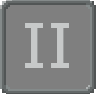
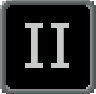
Finished UI

diff --git a/core/src/main/org/lordsofchaos/Game.java b/core/src/main/org/lordsofchaos/Game.java
@@ -83,6 +83,7 @@ public class Game extends ApplicationAdapter implements InputProcessor {
     private BitmapFont unitNumber;
     private BitmapFont matchConclusionFont;
     private BitmapFont arialFont18;
+    private BitmapFont boxyFont18;
     private Pixmap towerAttackPixmap;
     private Texture towerAttackTexture;
     private List<TroopSprite> unitsSprite = new ArrayList<>();
@@ -119,6 +120,10 @@ public class Game extends ApplicationAdapter implements InputProcessor {
 
     private Texture HPUpgradeBackgroundTexture;
     private Sprite HPUpgradeBackgroundSprite;
+
+    private Texture backgrounPanelTexture;
+    private Sprite backgroundPanelSprite;
+
     public static void main(String[] args) {
         setupClient();
     }
@@ -165,7 +170,9 @@ public class Game extends ApplicationAdapter implements InputProcessor {
     public static boolean getMenuOpen() {
         return menuOpen;
     }
-    
+    public  BitmapFont getPixelatedFont(){
+        return unitNumber;
+    }
     public static void setMenuOpen(boolean bool) {
         menuOpen = bool;
     }
@@ -253,9 +260,9 @@ public class Game extends ApplicationAdapter implements InputProcessor {
                 Gdx.graphics.getHeight() / 2 -215, Screen.MAIN_MENU, Screen.LEADERBOARD));
         
         // troop buttons
-        buttonList.add(new UnitButton("UI/ufoButton.png", 30, 50, Screen.ATTACKER_SCREEN, 0));
-        buttonList.add(new UnitButton("UI/ufo3Button.png", 136, 50, Screen.ATTACKER_SCREEN, 1));
-        buttonList.add(new UnitButton("UI/ufo2Button.png", 242, 50, Screen.ATTACKER_SCREEN, 2));
+        buttonList.add(new UnitButton("UI/ufoButtonB.png", 30, 50, Screen.ATTACKER_SCREEN, 0));
+        buttonList.add(new UnitButton("UI/ufo3ButtonB.png", 136, 50, Screen.ATTACKER_SCREEN, 1));
+        buttonList.add(new UnitButton("UI/ufo2ButtonB.png", 242, 50, Screen.ATTACKER_SCREEN, 2));
         // select attacker/defender buttons
         buttonList.add(new PlayerButton("UI/NewArtMaybe/defenderButton.png", 100, Gdx.graphics.getHeight() / 2, Screen.CHOOSE_FACTION, Screen.DEFENDER_SCREEN, 0));
         buttonList.add(new PlayerButton("UI/NewArtMaybe/attackerButton.png", Gdx.graphics.getWidth() - 400, Gdx.graphics.getHeight() / 2, Screen.CHOOSE_FACTION, Screen.ATTACKER_SCREEN, 1));
@@ -275,7 +282,7 @@ public class Game extends ApplicationAdapter implements InputProcessor {
         buttonList.add(new HoverUI("UI/healthBar1Hitbox.png",3, Gdx.graphics.getHeight() - 112,null,"UI/InfoCards/infoPanelHealthbar.png",10, Gdx.graphics.getHeight() - 275));
         buttonList.add(new HoverUI("UI/upgradeBarHitbox.png",10, Gdx.graphics.getHeight() - 161,null,"UI/InfoCards/infoPanelUpgradebar.png",10, Gdx.graphics.getHeight() - 275));
         buttonList.add(new HoverUI("UI/coinHitbox.png",Gdx.graphics.getWidth() - 215, Gdx.graphics.getHeight() - 85,null,"UI/InfoCards/infoPanelCoins.png",Gdx.graphics.getWidth() - 225, Gdx.graphics.getHeight() - 175));
-        buttonList.add(new HoverUI("UI/timerHitbox.png",Gdx.graphics.getWidth() / 2 + 275, Gdx.graphics.getHeight() - 77,null,"UI/InfoCards/infoPanelTimer.png",Gdx.graphics.getWidth() / 2 + 225, Gdx.graphics.getHeight() - 150));
+        buttonList.add(new HoverUI("UI/timerHitbox.png",Gdx.graphics.getWidth() / 2 + 275, Gdx.graphics.getHeight() - 77,null,"UI/InfoCards/infoPanelTimer.png",Gdx.graphics.getWidth() / 2 + 235, Gdx.graphics.getHeight() - 175));
         // menu buttons
         menuButtonList = new ArrayList<Button>();
         // slider buttons
@@ -408,6 +415,8 @@ public class Game extends ApplicationAdapter implements InputProcessor {
 
         fontGenerator = new FreeTypeFontGenerator(Gdx.files.internal("UI/boxybold.ttf"));
         fontParameterBoxy = new FreeTypeFontParameter();
+        fontParameterBoxy.size = 18;
+        boxyFont18 = fontGenerator.generateFont(fontParameterBoxy);
         fontParameterBoxy.size = 30;
         timerFont = fontGenerator.generateFont(fontParameterBoxy);
         fontParameterBoxy.size = 40;
@@ -431,15 +440,16 @@ public class Game extends ApplicationAdapter implements InputProcessor {
         leaderBoardRowText = new BitmapFont();
         matchConclusionFont = new BitmapFont();
         arialFont18 = new BitmapFont();
+        boxyFont18 = new BitmapFont();
     }
     public void showHealth() {
         healthPercentage();
-        HPUpgradeBackgroundSprite.draw(batch);
+        //HPUpgradeBackgroundSprite.draw(batch);
         healthBarSprite.draw(batch);
         healthSprite.draw(batch);
         String nr = GameController.defender.getHealth() + "";
         hpCounter.getData().setScale(1.5f);
-        hpCounter.draw(batch, nr + " / 100", 205 - (nr.length() - 1) * 5, Gdx.graphics.getHeight() - 54);
+        boxyFont18.draw(batch, nr + " / 100" , 205 - (nr.length() - 1) * 5, Gdx.graphics.getHeight() - 51);
     }
     
     public void showUnitHealthBar() {
@@ -501,7 +511,7 @@ public class Game extends ApplicationAdapter implements InputProcessor {
         coinSprite.setPosition(Gdx.graphics.getWidth() - 200, Gdx.graphics.getHeight() - 72);
         String tmpCoinCounter = player.getCurrentMoney() + "";
         coinCounter.getData().setScale(2.0f);
-        coinCounter.draw(batch, tmpCoinCounter, Gdx.graphics.getWidth() - 120, Gdx.graphics.getHeight() - 50);
+        timerFont.draw(batch, tmpCoinCounter, Gdx.graphics.getWidth() - 135, Gdx.graphics.getHeight() - 35);
         
         coinSprite.draw(batch);
     }
@@ -588,7 +598,6 @@ public class Game extends ApplicationAdapter implements InputProcessor {
                 int tmpTroopType = ((UnitButton) button).getTroopType();
                 String unitNr = "" + EventManager.getUnitBuildPlan()[tmpTroopType][tmpPath];
                 unitNumber.draw(batch, unitNr, button.getX() + button.getSprite().getWidth() - 20 - (unitNr.length() - 1) * 10, button.getY() + 25);
-                //unitNumber.draw(batch, nr, unitButton.getX() + unitButton.getSprite().getWidth() - 20 - (nr.length() - 1) * 10, unitButton.getY() + 25);
             }
         }
         showHealth();
@@ -749,6 +758,10 @@ public class Game extends ApplicationAdapter implements InputProcessor {
         HPUpgradeBackgroundTexture = new Texture(Gdx.files.internal("UI/HP+UpgradeBackground.png"));
         HPUpgradeBackgroundSprite = new Sprite(HPUpgradeBackgroundTexture);
         HPUpgradeBackgroundSprite.setPosition(0,Gdx.graphics.getHeight() - 200);
+
+        backgrounPanelTexture = new Texture("UI/NewArtMaybe/panelB.png");
+        backgroundPanelSprite = new Sprite(backgrounPanelTexture);
+        backgroundPanelSprite.setPosition(Gdx.graphics.getWidth() - backgroundPanelSprite.getWidth() - 10, Gdx.graphics.getHeight() - backgroundPanelSprite.getHeight() - 10);
         Gdx.input.setInputProcessor(this);
     }
     
@@ -756,7 +769,6 @@ public class Game extends ApplicationAdapter implements InputProcessor {
     public void render() {
         Gdx.gl.glClearColor(0.1f, 0.1f, 0.1f, 1);
         Gdx.gl.glClear(GL20.GL_COLOR_BUFFER_BIT);
-
         if (hasExited) exitLevelEditor();
 
         if (currentScreen == null) Gdx.app.exit();
@@ -832,6 +844,7 @@ public class Game extends ApplicationAdapter implements InputProcessor {
             batch.end();
             isometricPov();
             batch.begin();
+            backgroundPanelSprite.draw(batch);
             gameBackgroundBottomSprite.setSize(1280, 720);
             gameBackgroundBottomSprite.draw(batch);
             if (player == 0) defenderPOV();
@@ -874,12 +887,12 @@ public class Game extends ApplicationAdapter implements InputProcessor {
             if (GameController.getWaveState() == GameController.WaveState.AttackerBuild ||
                     GameController.getWaveState() == GameController.WaveState.DefenderBuild ||
                     GameController.getWaveState() == GameController.WaveState.Play) {
-                if(GameController.getWaveState() != GameController.WaveState.Play) {
-                    String timerTmp = String.format("%02d", 30 - (int) GameController.getBuildPhaseTimer());
-                    timerFont.draw(batch, timerTmp, Gdx.graphics.getWidth() / 2 + 325, Gdx.graphics.getHeight() - 35);
-                    clockSprite.draw(batch);
+                String timerTmp = String.format("%02d", 30 - (int) GameController.getBuildPhaseTimer());
+                if(GameController.getWaveState() == GameController.WaveState.Play) {
+                    timerTmp = "Play";
                 }
-
+                timerFont.draw(batch, timerTmp, Gdx.graphics.getWidth() / 2 + 325, Gdx.graphics.getHeight() - 35);
+                clockSprite.draw(batch);
             }
 
             if(!alertList.isEmpty())

diff --git a/core/src/main/org/lordsofchaos/graphics/buttons/UnitUpgradeButton.java b/core/src/main/org/lordsofchaos/graphics/buttons/UnitUpgradeButton.java
@@ -25,11 +25,11 @@ public class UnitUpgradeButton extends HoverButton {
         super(path + "1.png" , buttonX1, buttonY1, screenLocation);
         this.path = path;
         currentUpgrade = 1;
-        infoCardTexture = new Texture("UI/InfoCards/infoPanelTier1.png");
+        infoCardTexture = new Texture("UI/InfoCards/infoPanelUnitUpgrade1.png");
         infoCardSprite = new Sprite(infoCardTexture);
         infoCardSprite.setPosition(30,150);
         alertFont = Game.getBloxyFont();
-        cooldownFont = Game.getFontArial(50);
+        cooldownFont = Game.instance.getPixelatedFont();
         spriteActive = super.sprite;
         textureCooldown = new Texture(Gdx.files.internal(path + currentUpgrade + "Cooldown.png"));
         spriteCooldown = new Sprite(textureCooldown);
@@ -45,13 +45,14 @@ public class UnitUpgradeButton extends HoverButton {
             onCooldown = false;
         }
         else{
+            if(!sprite.equals(spriteCooldown)) sprite = spriteCooldown;
             onCooldown = true;
         }
         if(GameController.getUnitUpgradeLevel() != currentUpgrade) {
             currentUpgrade = GameController.getUnitUpgradeLevel();
             createSprite(path);
         }
-        if(checkHover(x,y))
+        if(checkHover(x,y) && currentUpgrade < 4)
             infoCardSprite.draw(batch);
         //System.out.println(currentUpgrade);
         //sprite.draw(batch);
@@ -66,20 +67,26 @@ public class UnitUpgradeButton extends HoverButton {
         spriteCooldown = new Sprite(textureCooldown);
         spriteCooldown.setPosition(buttonX1,buttonY1);
         super.sprite = spriteCooldown;
+        infoCardTexture.dispose();
+        if(currentUpgrade < 4) {
+            infoCardTexture = new Texture("UI/InfoCards/infoPanelUnitUpgrade" + currentUpgrade + ".png");
+            infoCardSprite = new Sprite(infoCardTexture);
+            infoCardSprite.setPosition(30, 150);
+        }
     }
     @Override
     public void leftButtonAction() {
         if(GameController.canAttackerAffordUpgrade() && GameController.attackerEarnedUpgrade() && currentUpgrade != 4) {
             EventManager.attackerUpgrade();
             selectSound.play(Game.getSoundEffectsVolume());
-            Game.createAlert(2,alertFont,"Troops have been upgraded!",500,600,null);
+            Game.createAlert(2,alertFont,"Troops have been upgraded!",300,600,null);
         }
         else Game.playSound("ErrorSound");
     }
     public void showCooldown(SpriteBatch batch){
-        if(onCooldown) {
+        if(onCooldown && currentUpgrade < 4) {
             String tmpStr = String.format("%02d", GameController.getAttackerUpgradeCooldown());
-            cooldownFont.draw(batch, tmpStr, buttonX1 + sprite.getWidth() / 4, buttonY1 + sprite.getHeight() - sprite.getHeight() / 4);
+            cooldownFont.draw(batch, tmpStr, buttonX1 + sprite.getWidth() - 20 - (tmpStr.length() - 1) * 10, buttonY1 + 25);
 
         }
     }

diff --git a/core/src/main/org/lordsofchaos/graphics/buttons/UpgradeButton.java b/core/src/main/org/lordsofchaos/graphics/buttons/UpgradeButton.java
@@ -12,6 +12,7 @@ public class UpgradeButton extends HoverButton
 {
     
     public static boolean maxLevel;
+    private static boolean doOnce = true;
     private Texture infoCardTexture;
     private Sprite infoCardSprite;
     public UpgradeButton(String path, float buttonX1, float buttonY1, Screen screenLocation) {
@@ -47,8 +48,15 @@ public class UpgradeButton extends HoverButton
     }
     @Override
     public void update(int x, int y, SpriteBatch batch) {
-        if(checkHover(x,y)){
+        if(checkHover(x,y) && !maxLevel){
             infoCardSprite.draw(batch);
+        }
+        if(maxLevel && doOnce){
+            doOnce = false;
+            super.texture.dispose();
+            super.texture = new Texture("UI/NewArtMaybe/defenderUpgradeButtonMAX.png");
+            super.sprite = new Sprite(super.texture);
+            super.sprite.setPosition(buttonX1,buttonY1);
         }
     }
 }

diff --git a/core/src/main/org/lordsofchaos/GameController.java b/core/src/main/org/lordsofchaos/GameController.java
@@ -150,7 +150,7 @@ public class GameController {
     }
 
     public static int getAttackerUpgradeCooldown(){
-        return troopUpgradeThreshold - troopsMade;
+        return troopUpgradeThreshold - troopsMade % troopUpgradeThreshold;
     }
 
     public static int getDefenderUpgrade(){return defenderUpgradeLevel;}
